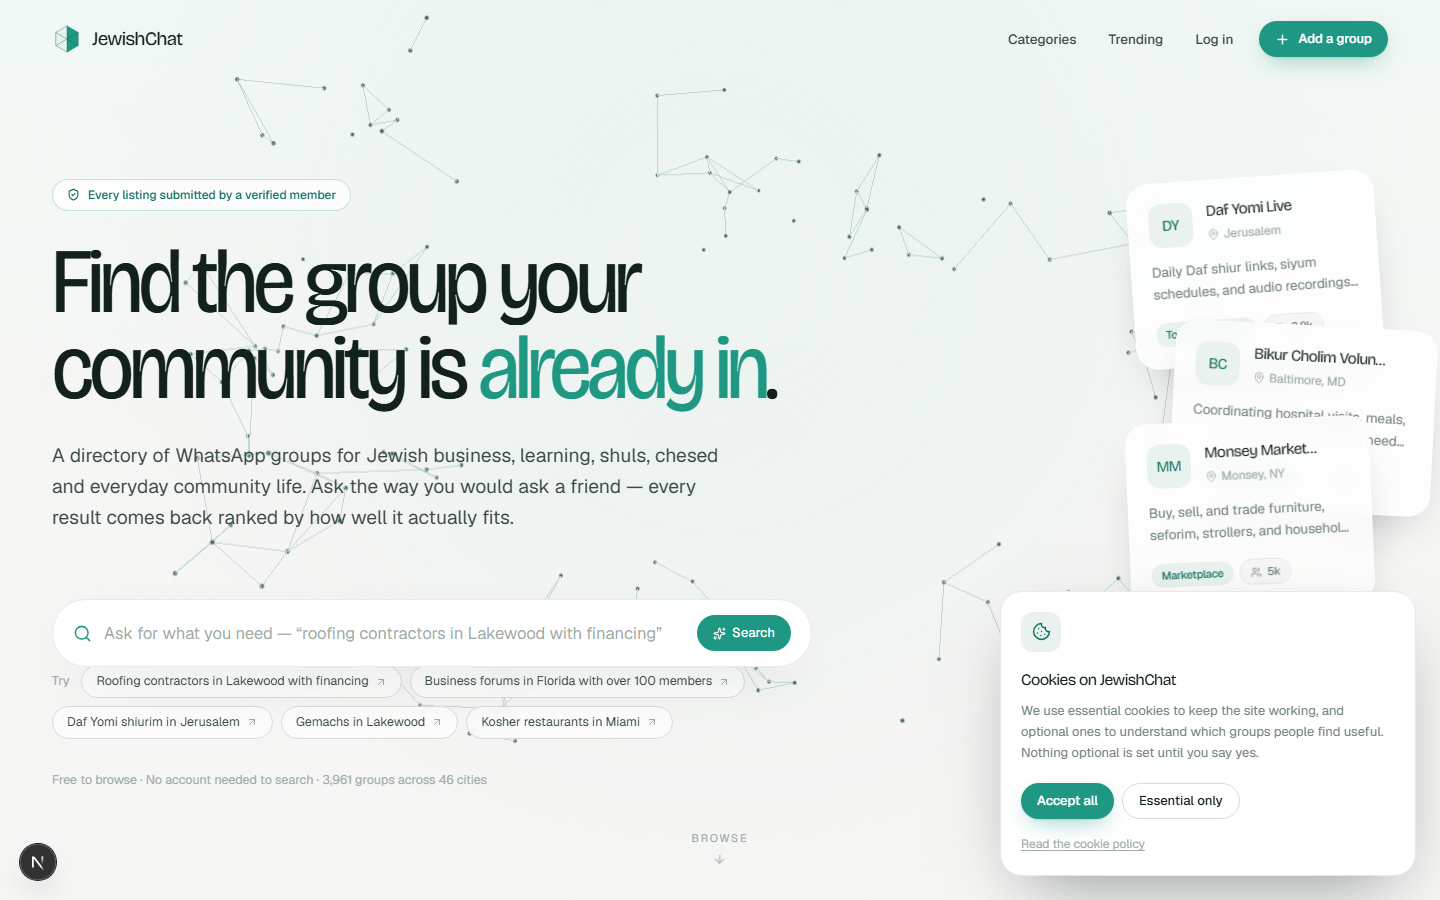
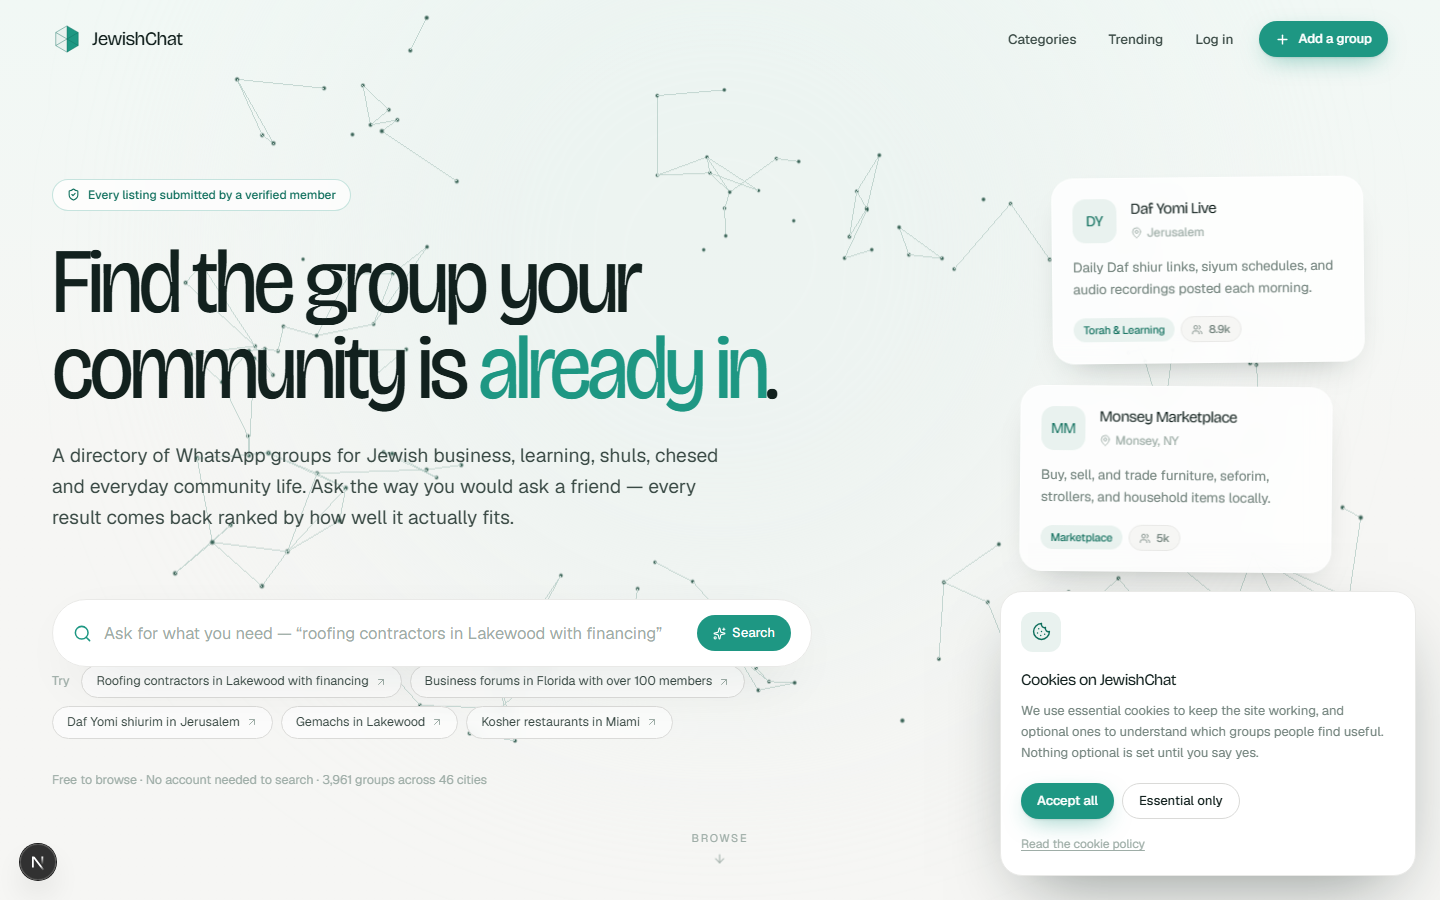
fix: replace overlapping card fan with a non-overlapping two-card column
The 3-card stacked fan bled past the viewport edge (shadow blur plus a
negative right offset pushed card 2 past x=1440), sliced card content with
real overlap (badges hidden, description cut mid-sentence), and truncated
titles ("Bikur Cholim Volun..."). Switch to two cards in a loose staggered
column: near-zero alternating rotation, small hand-placed horizontal
offsets, generous right margin, and vertical spacing sized off the card's
actual rendered height so the two slots can never overlap. Drop the
confidence bar from the floating cards entirely — it was inflating active-
query card height past what the idle spacing was measured against, which is
what let the two states overlap differently. Swap the default duo to two
short group names (Daf Yomi Live, Monsey Marketplace) so nothing is shipped
ellipsized, and shift the column up to clear the cookie-consent banner.

diff --git a/components/hero/HeroGroupCluster.tsx b/components/hero/HeroGroupCluster.tsx
@@ -7,24 +7,43 @@ import { PUBLIC_GROUPS } from "@/lib/data/groups";
 import { gsap, registerGsap, useIsomorphicLayoutEffect } from "@/lib/motion/gsap";
 import type { Group } from "@/types";
 
-type ClusterCard = { group: Group; confidence?: number };
+type ClusterCard = { group: Group };
+
+/**
+ * Confidence is deliberately never rendered here. GroupCard's relevance bar
+ * adds real height, and this cluster's vertical rhythm is sized for a fixed
+ * card height so the two slots can never overlap regardless of state — a
+ * card that's taller when searching than when idle would break that
+ * guarantee. Relevance is already visible in the Suggestions dropdown;
+ * here, which two groups are shown *is* the relevance signal.
+ */
 
 /**
  * Curated so the idle state shows category + city variety on first paint —
- * Torah, chesed, and marketplace, across Jerusalem, Baltimore, and Monsey.
- * Hard-coded rather than picked at random so the empty state is intentional.
+ * Torah learning in Jerusalem and a marketplace in Monsey. Two, not three:
+ * a third card has nowhere to sit in this column without either overlapping
+ * one of these two or drifting into the cookie-consent banner's corner.
+ * Both names are short enough to render in full at this card width — long
+ * names ("Bikur Cholim Volunteers") were deliberately swapped out rather
+ * than shipped truncated.
  */
-const DEFAULT_IDS = ["g-03", "g-11", "g-17"];
+const DEFAULT_IDS = ["g-03", "g-17"];
 
-const DEFAULT_TRIO: ClusterCard[] = DEFAULT_IDS.map((id) =>
+const DEFAULT_DUO: ClusterCard[] = DEFAULT_IDS.map((id) =>
   PUBLIC_GROUPS.find((g) => g.id === id),
 ).filter((g): g is Group => Boolean(g)).map((group) => ({ group }));
 
-/** Floating layout per slot: index 0/1/2 top-to-bottom on the right edge. */
+/**
+ * A loose staggered column, not a fan: each slot's vertical span is clear of
+ * the next, so nothing is ever sliced by the card below it. Horizontal
+ * offset and rotation are both small enough to read as "placed by hand"
+ * rather than "randomly scattered." `right` is measured from the hero's own
+ * padded edge, which already sits ~20px inside the 1440px viewport, so a
+ * 56px+ offset leaves real, comfortable margin to the window edge.
+ */
 const SLOTS = [
-  { top: "0%", right: "12%", rotate: -4, width: 248 },
-  { top: "24%", right: "-4%", rotate: 3, width: 262 },
-  { top: "40%", right: "14%", rotate: -2.5, width: 244 },
+  { top: "0%", right: 56, rotate: -0.6, width: 312 },
+  { top: "34%", right: 88, rotate: 0.5, width: 312 },
 ] as const;
 
 export function HeroGroupCluster() {
@@ -32,8 +51,8 @@ export function HeroGroupCluster() {
   const rootRef = useRef<HTMLDivElement>(null);
 
   const cards = useMemo<ClusterCard[]>(() => {
-    if (!isSearching) return DEFAULT_TRIO;
-    return results.slice(0, 3).map((r) => ({ group: r.group, confidence: r.confidence }));
+    if (!isSearching) return DEFAULT_DUO;
+    return results.slice(0, SLOTS.length).map((r) => ({ group: r.group }));
   }, [isSearching, results]);
 
   useIsomorphicLayoutEffect(() => {
@@ -62,7 +81,7 @@ export function HeroGroupCluster() {
 
         const floats = Array.from(slots).map((slot, i) =>
           gsap.to(slot, {
-            y: i % 2 === 0 ? -14 : 12,
+            y: i % 2 === 0 ? -12 : 10,
             duration: 3.4 + i * 0.5,
             delay: 0.3 + i * 0.14 + 1,
             ease: "sine.inOut",
@@ -84,7 +103,7 @@ export function HeroGroupCluster() {
   return (
     <div
       ref={rootRef}
-      className="pointer-events-none absolute inset-y-0 right-0 hidden w-[300px] lg:block xl:w-[340px]"
+      className="pointer-events-none absolute inset-y-0 right-0 hidden w-[400px] lg:block"
     >
       {SLOTS.map((slot, i) => {
         const card = cards[i];
@@ -103,8 +122,7 @@ export function HeroGroupCluster() {
           >
             <GroupCard
               group={card.group}
-              confidence={card.confidence}
-              className="bg-white/78 border-white/60 shadow-[0_22px_50px_-26px_color-mix(in_oklab,var(--color-ink-1)_40%,transparent)] backdrop-blur-md hover:rotate-0"
+              className="bg-white/80 border-white/60 shadow-[0_16px_34px_-22px_color-mix(in_oklab,var(--color-ink-1)_38%,transparent)] backdrop-blur-md hover:rotate-0"
             />
           </div>
         );
